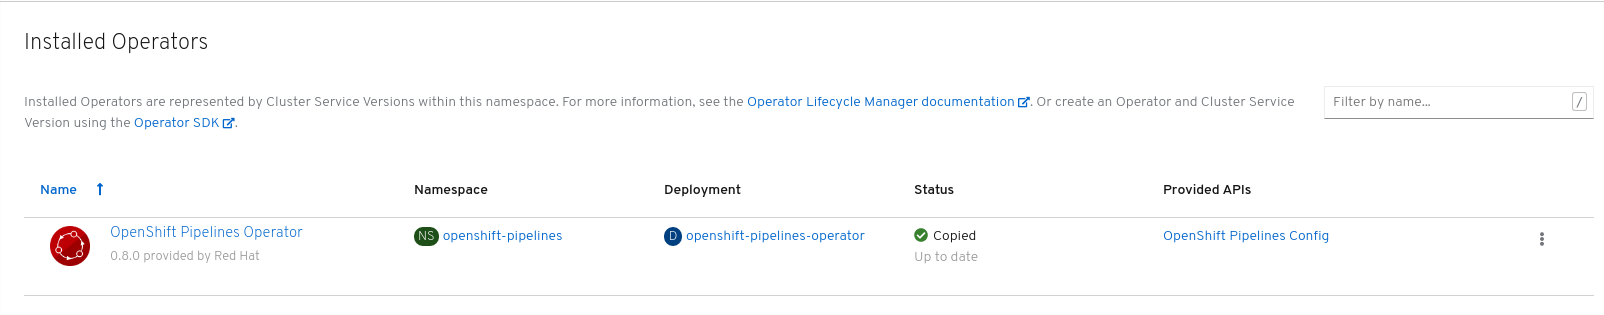
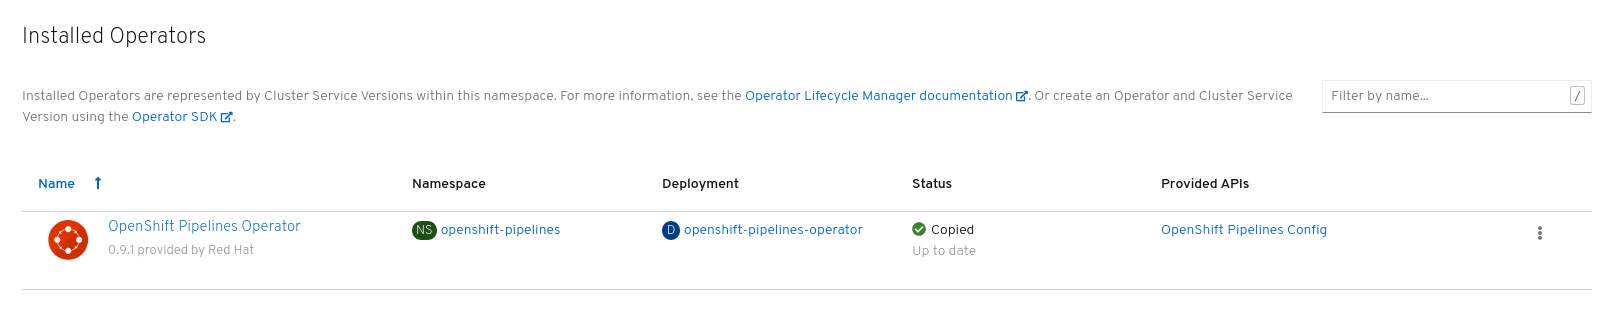
Update for 0.9 release

diff --git a/README.md b/README.md
@@ -146,22 +146,30 @@ We will be using `buildah` and`s2i-python-3` tasks also which gets installed alo
 ```
 $ tkn clustertask ls
 NAME                      AGE
-buildah                   9 hours ago
-buildah-v0-8-0            9 hours ago
-openshift-client          9 hours ago
-openshift-client-v0-8-0   9 hours ago
-s2i                       9 hours ago
-s2i-go                    9 hours ago
-s2i-go-v0-8-0             9 hours ago
-s2i-java-11               9 hours ago
-s2i-java-11-v0-8-0        9 hours ago
-s2i-java-8                9 hours ago
-s2i-java-8-v0-8-0         9 hours ago
-s2i-nodejs                9 hours ago
-s2i-nodejs-v0-8-0         9 hours ago
-s2i-python-3              9 hours ago
-s2i-python-3-v0-8-0       9 hours ago
-s2i-v0-8-0                9 hours ago
+buildah                   2 minutes ago
+buildah-v0-8-0            2 minutes ago
+buildah-v0-9-0            2 minutes ago
+openshift-client          2 minutes ago
+openshift-client-v0-8-0   2 minutes ago
+openshift-client-v0-9-0   2 minutes ago
+s2i                       2 minutes ago
+s2i-go                    2 minutes ago
+s2i-go-v0-8-0             2 minutes ago
+s2i-go-v0-9-0             2 minutes ago
+s2i-java-11               2 minutes ago
+s2i-java-11-v0-8-0        2 minutes ago
+s2i-java-11-v0-9-0        2 minutes ago
+s2i-java-8                2 minutes ago
+s2i-java-8-v0-8-0         2 minutes ago
+s2i-java-8-v0-9-0         2 minutes ago
+s2i-nodejs                2 minutes ago
+s2i-nodejs-v0-8-0         2 minutes ago
+s2i-nodejs-v0-9-0         2 minutes ago
+s2i-python-3              2 minutes ago
+s2i-python-3-v0-8-0       2 minutes ago
+s2i-python-3-v0-9-0       2 minutes ago
+s2i-v0-8-0                2 minutes ago
+s2i-v0-9-0                2 minutes ago
 ```
 
 ## Create Pipeline
